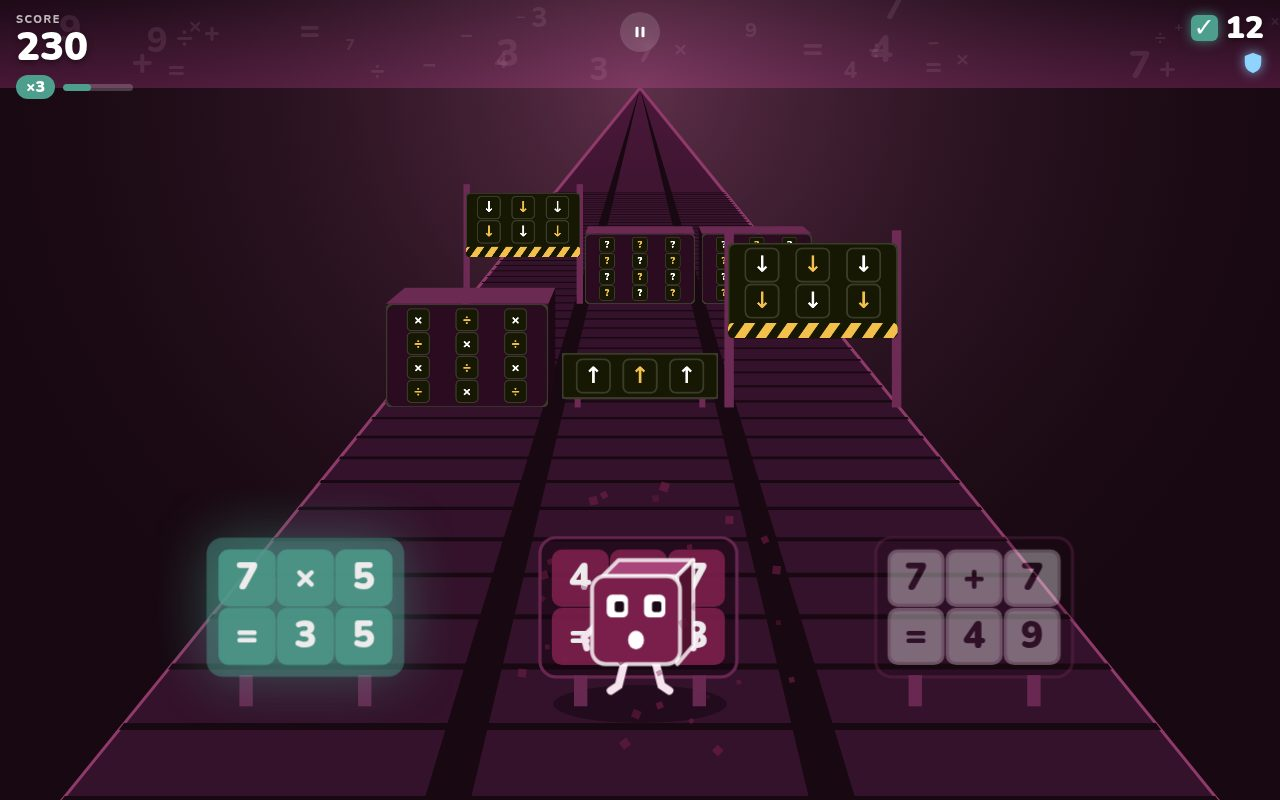
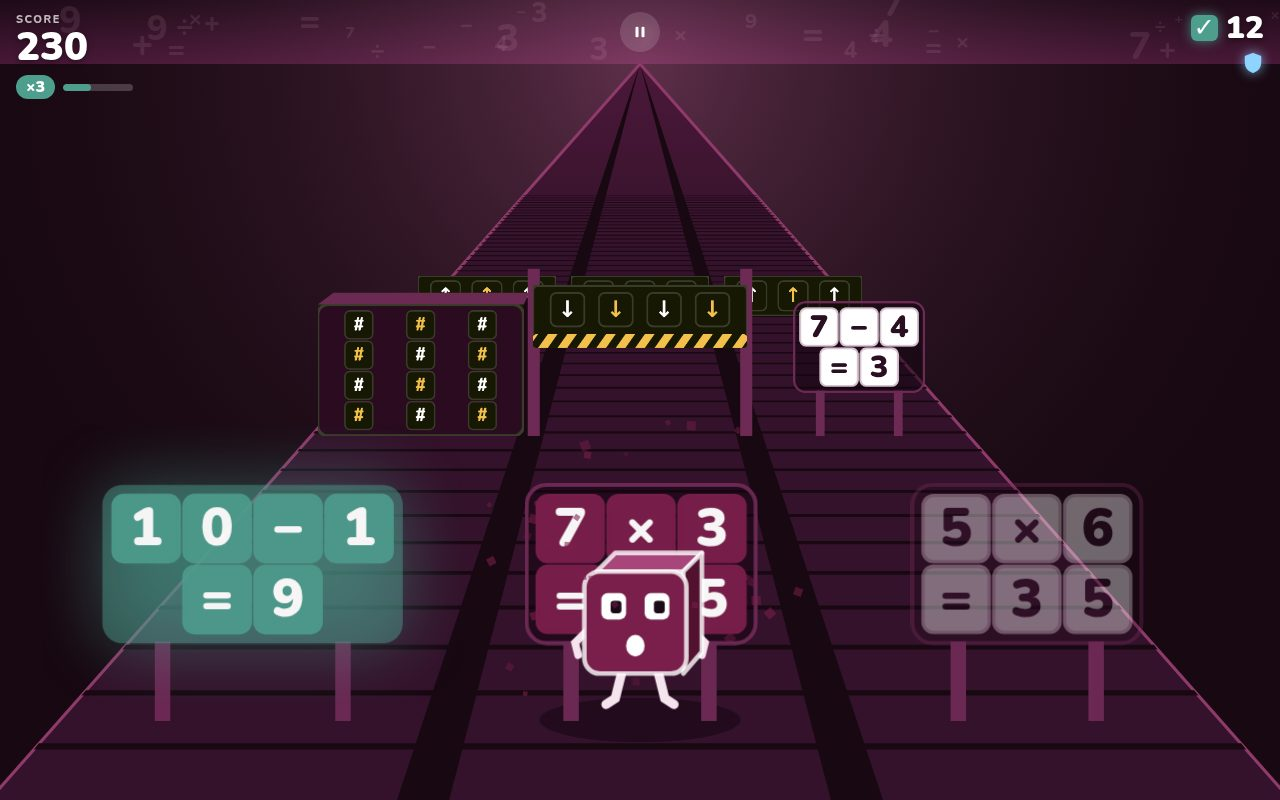
One swipe = one lane; bigger maths and longer reading time
- Swipes: exactly one action per touch. A long or fast swipe used to fire
  twice, because the origin reset after each move; two lanes now takes
  two swipes. Quick flicks that only register on release still count,
  and each finger is tracked separately. 6 new tests.
- Bigger digits everywhere: a wider track on laptops/tablets, digits
  filling 82% of each tile, and tighter panel padding. Digit height at
  the runner: phone 21->27px, laptop 27->39px, iPad 21->27px.
- More reading time without slowing the game: a longer camera lens keeps
  far rows large, so equations are legible from much further back.
  Legible for 4.1s on a phone (was 2.0s), 5.9s on a laptop (was 3.3s)
  and 4.0s on an iPad (was 2.1s) at the start of a run.
- Laptops and tablets (portrait too) read left to right in two lines;
  phones keep column arithmetic, where it's about twice the digit size.
- Panels stand higher, walls are shorter front-to-back, and the beam
  board is slimmer, so nothing in front hides the equations behind it.
- Adaptive quality reacts sooner and steps back up only after 15s calm.

Claude-Session: https://claude.ai/code/session_0137cJNrgS5eK7hfYjYFJS6r

Changed region(s): [[0.0, 0.0625, 1.0, 1.0]]

diff --git a/src/render/renderer.js b/src/render/renderer.js
@@ -16,19 +16,19 @@
 
 import { SPAWN_D, WALL_LEN } from '../game/engine.js';
 import { displayToken } from '../game/equations.js';
-import { createView, scaleAt, groundYAt, laneXAt, project, layoutTokens, CAM, TILE_GAP } from './projection.js';
+import { createView, scaleAt, groundYAt, laneXAt, project, layoutTokens, CAM, TILE_GAP, PANEL_PAD } from './projection.js';
 
 const FONT = '"Nunito", "Quicksand", system-ui, sans-serif';
 // Heights in world units (a lane is 4 wide; the cube is ~2 tall).
-const PANEL_LIFT = 0.35; // equation panels stand on short legs
+const PANEL_LIFT = 0.8; // equation panels stand on legs, clear of whatever is in front
 const HURDLE_LIFT = 0.2;
 const HURDLE_TOP = 1.25;
 // Beams are a tall overhead gantry — big board up high, obvious open gap
 // underneath — but the bottom edge sits below the standing cube's head (~2),
 // above the ducking cube (~0.9): you must duck.
 const BEAM_BOTTOM = 1.6;
-const BEAM_TOP = 3.8;
-const BEAM_POST_TOP = 4.1;
+const BEAM_TOP = 2.75; // slim board: doesn't hide the row behind it
+const BEAM_POST_TOP = 3.05;
 const WALL_H = 2.4; // taller than the cube (~2), low enough not to hide the row behind
 const ROW_LEN = 4.5; // world length of one row of track tiles
 const SEAM_FAR_D = 220; // seams further than this blend into the bed anyway
@@ -102,7 +102,7 @@ export function createRenderer(backCanvas, frontCanvas) {
   /** React to engine events with particles. */
   function onEvents(g, events, theme) {
     const v = view;
-    const midY = v.groundY - v.ppu * 1.3; // roughly the middle of a panel at the runner
+    const midY = v.groundY - v.ppu * 1.6; // roughly the middle of a panel at the runner
     for (const e of events) {
       if (e.type === 'coin') {
         // The panel shatters into its tiles and a coin flies to the HUD.
@@ -446,7 +446,7 @@ export function createRenderer(backCanvas, frontCanvas) {
     const gap = tile * TILE_GAP;
     const rows = layoutTokens(tokens, view.signLayout);
     const align = view.signLayout === 'column' ? 'right' : 'center';
-    const inner = tile * 0.25;
+    const inner = tile * PANEL_PAD;
     const rowW = (r) => r.length * tile + (r.length - 1) * gap;
     const w = Math.max(...rows.map(rowW)) + inner * 2;
     const h = rows.length * tile + (rows.length - 1) * gap + inner * 2;
@@ -482,8 +482,9 @@ export function createRenderer(backCanvas, frontCanvas) {
 
     ctx.textAlign = 'center';
     ctx.textBaseline = 'middle';
-    ctx.font = `900 ${tile * 0.7}px ${FONT}`;
-    ctx.lineWidth = Math.max(1, tile * 0.06);
+    // Big, bold digits: they fill most of the tile.
+    ctx.font = `900 ${tile * 0.82}px ${FONT}`;
+    ctx.lineWidth = Math.max(1, tile * 0.05);
     const maxW = w - inner * 2;
     rows.forEach((row, ri) => {
       const y = inner + ri * (tile + gap);
@@ -495,7 +496,7 @@ export function createRenderer(backCanvas, frontCanvas) {
         ctx.strokeStyle = edge;
         ctx.stroke();
         ctx.fillStyle = ink;
-        ctx.fillText(displayToken(ch), x + tile / 2, y + tile * 0.54);
+        ctx.fillText(displayToken(ch), x + tile / 2, y + tile * 0.56);
         x += tile + gap;
       }
     });
@@ -610,7 +611,7 @@ export function createRenderer(backCanvas, frontCanvas) {
     let hUnits;
     let glyphs;
     if (kind === 'hurdle') [cols, rows, wFrac, hUnits, glyphs] = [3, 1, 0.9, HURDLE_TOP - HURDLE_LIFT, ['↑']];
-    else if (kind === 'beam') [cols, rows, wFrac, hUnits, glyphs] = [3, 2, 0.98, BEAM_TOP - BEAM_BOTTOM, ['↓']];
+    else if (kind === 'beam') [cols, rows, wFrac, hUnits, glyphs] = [4, 1, 0.98, BEAM_TOP - BEAM_BOTTOM, ['↓']];
     else {
       const variant = Number(kind.slice(4));
       [cols, rows, wFrac, hUnits] = [3, 4, 0.94, WALL_H];
@@ -632,7 +633,7 @@ export function createRenderer(backCanvas, frontCanvas) {
     // Tiles.
     const padX = w * 0.05;
     const padY = h * (rows === 1 ? 0.1 : 0.04);
-    const bottomBand = kind === 'beam' ? h * 0.16 : 0;
+    const bottomBand = kind === 'beam' ? h * 0.22 : 0;
     const tw = (w - padX * 2) / cols;
     const th = (h - padY * 2 - bottomBand) / rows;
     const t = Math.min(tw, th);
@@ -656,7 +657,7 @@ export function createRenderer(backCanvas, frontCanvas) {
     }
     if (kind === 'beam') {
       // Yellow/black hazard stripes along the underside: "the gap is below".
-      const band = h * 0.16;
+      const band = h * 0.22;
       ctx.save();
       roundRect(ctx, 0, h - band, w, band, band * 0.3);
       ctx.clip();

diff --git a/src/input.test.js b/src/input.test.js
@@ -24,19 +24,69 @@ describe('swipes', () => {
     expect(classifySwipe(5, 5)).toBeNull();
   });
 
-  it('chains two lane changes in one stroke', () => {
+  const rig = () => {
     const el = document.createElement('div');
-    const onAction = vi.fn();
-    attachSwipe(el, onAction);
-    const ev = (type, x, y) => {
+    const calls = [];
+    attachSwipe(el, (a) => calls.push(a));
+    const ev = (type, x, y, id = 1) => {
       const e = new Event(type);
-      Object.assign(e, { clientX: x, clientY: y, pointerId: 1 });
+      Object.assign(e, { clientX: x, clientY: y, pointerId: id });
       el.dispatchEvent(e);
     };
-    ev('pointerdown', 200, 200);
-    ev('pointermove', 170, 200);
-    ev('pointermove', 140, 202);
-    ev('pointerup', 140, 202);
-    expect(onAction.mock.calls.map((c) => c[0])).toEqual(['left', 'left']);
+    return { ev, calls };
+  };
+
+  it('one swipe moves exactly one lane, however long it is', () => {
+    const { ev, calls } = rig();
+    ev('pointerdown', 300, 400);
+    for (let x = 290; x >= 20; x -= 10) ev('pointermove', x, 402); // a long, sweeping swipe
+    ev('pointerup', 20, 402);
+    expect(calls).toEqual(['left']);
+  });
+
+  it('two lanes takes two swipes', () => {
+    const { ev, calls } = rig();
+    for (let i = 0; i < 2; i++) {
+      ev('pointerdown', 200, 400);
+      ev('pointermove', 160, 400);
+      ev('pointerup', 150, 400);
+    }
+    expect(calls).toEqual(['left', 'left']);
+  });
+
+  it('changing direction mid-swipe does not add a second move', () => {
+    const { ev, calls } = rig();
+    ev('pointerdown', 200, 400);
+    ev('pointermove', 240, 400); // right
+    ev('pointermove', 150, 400); // then back left past the start
+    ev('pointermove', 150, 300); // then up
+    ev('pointerup', 150, 300);
+    expect(calls).toEqual(['right']);
+  });
+
+  it('a quick flick that only registers on release still counts', () => {
+    const { ev, calls } = rig();
+    ev('pointerdown', 200, 400);
+    ev('pointerup', 200, 340);
+    expect(calls).toEqual(['jump']);
+  });
+
+  it('a tap does nothing', () => {
+    const { ev, calls } = rig();
+    ev('pointerdown', 200, 400);
+    ev('pointermove', 205, 403);
+    ev('pointerup', 205, 403);
+    expect(calls).toEqual([]);
+  });
+
+  it('two fingers are two independent swipes', () => {
+    const { ev, calls } = rig();
+    ev('pointerdown', 100, 400, 1);
+    ev('pointerdown', 300, 400, 2);
+    ev('pointermove', 60, 400, 1);
+    ev('pointermove', 340, 400, 2);
+    ev('pointerup', 60, 400, 1);
+    ev('pointerup', 340, 400, 2);
+    expect(calls).toEqual(['left', 'right']);
   });
 });

diff --git a/src/render/projection.js b/src/render/projection.js
@@ -11,9 +11,12 @@
 
 import { MAX_TILES } from '../game/equations.js';
 
-export const CAM = 45;
+// A fairly long lens: far rows stay large enough to read early, which is
+// what buys reading time (without slowing the game down).
+export const CAM = 55;
 export const LANE_UNITS = 4; // world width of a lane
-export const TILE_GAP = 0.08; // gap between tiles, as a fraction of tile size
+export const TILE_GAP = 0.07; // gap between tiles, as a fraction of tile size
+export const PANEL_PAD = 0.16; // panel border around the tiles, as a fraction of tile size
 
 export function createView(width, height) {
   const portrait = height > width * 1.1;
@@ -21,22 +24,23 @@ export function createView(width, height) {
   // Track width at the runner. On phones it's a touch wider than the screen:
   // side lanes are fully visible while you read ahead and only clip at the
   // very last moment, which buys noticeably bigger tiles.
-  const trackW = narrow ? width * 1.25 : Math.min(width * 0.96, height * 1.25, 1150);
+  const trackW = narrow ? width * 1.28 : Math.min(width * 0.97, height * 1.45, 1400);
   const laneW = trackW / 3;
-  const horizonY = height * (portrait ? 0.15 : 0.11);
-  const groundY = height * (portrait ? 0.86 : 0.88);
+  const horizonY = height * (portrait ? 0.12 : 0.08);
+  const groundY = height * (portrait ? 0.87 : 0.9);
   const ppu = laneW / LANE_UNITS; // pixels per world unit at the runner
 
-  // Equation panel layout. Bigger tiles win:
-  //   'row'    7×8=56 on one line (only when there's loads of room)
-  //   'two'    7×8 / =56
+  // Equation panel layout — read left to right wherever the screen allows:
+  //   'row'    7×8=56 on one line (only when even that gives big tiles)
+  //   'two'    7×8 / =56 — laptops and tablets (portrait too)
   //   'column' 7 / ×8 / =56, right-aligned like written column arithmetic —
-  //            what phones get, roughly doubling tile size
-  const signW = laneW * 0.94;
-  const tileFor = (cols) => signW / (cols + (cols - 1) * TILE_GAP + 0.5);
+  //            phones only, where it roughly doubles the digit size compared
+  //            with a horizontal layout in a lane that narrow
+  const signW = laneW * 0.96;
+  const tileFor = (cols) => signW / (cols + (cols - 1) * TILE_GAP + PANEL_PAD * 2);
   let signLayout = 'column';
-  if (tileFor(MAX_TILES) >= 46) signLayout = 'row';
-  else if (tileFor(5) >= 34) signLayout = 'two';
+  if (tileFor(MAX_TILES) >= 56) signLayout = 'row';
+  else if (tileFor(5) >= 36) signLayout = 'two';
 
   return {
     width,

diff --git a/src/input.js b/src/input.js
@@ -30,34 +30,39 @@ export function classifySwipe(dx, dy, threshold = 22) {
 }
 
 /**
- * Attach swipe handling to an element. One stroke can chain moves
- * (swipe left-left across two lanes) because the origin resets after each
- * recognised gesture.
+ * Attach swipe handling to an element. Exactly ONE action per touch: a long
+ * or fast swipe still only moves one lane — lift and swipe again to move two.
+ * It fires as soon as the finger crosses the threshold (no waiting for
+ * touchend), and a very quick flick that only registers on release still
+ * counts. Each finger is tracked separately.
  */
 export function attachSwipe(el, onAction) {
-  let origin = null;
+  const strokes = new Map(); // pointerId -> { x, y, fired }
   const down = (e) => {
-    origin = { x: e.clientX, y: e.clientY, id: e.pointerId };
+    strokes.set(e.pointerId, { x: e.clientX, y: e.clientY, fired: false });
   };
-  const move = (e) => {
-    if (!origin || e.pointerId !== origin.id) return;
-    const action = classifySwipe(e.clientX - origin.x, e.clientY - origin.y);
+  const check = (e) => {
+    const s = strokes.get(e.pointerId);
+    if (!s || s.fired) return;
+    const action = classifySwipe(e.clientX - s.x, e.clientY - s.y);
     if (action) {
+      s.fired = true;
       onAction(action);
-      origin = { x: e.clientX, y: e.clientY, id: e.pointerId };
     }
   };
-  const up = () => {
-    origin = null;
+  const up = (e) => {
+    check(e);
+    strokes.delete(e.pointerId);
   };
+  const cancel = (e) => strokes.delete(e.pointerId);
   el.addEventListener('pointerdown', down);
-  el.addEventListener('pointermove', move);
+  el.addEventListener('pointermove', check);
   el.addEventListener('pointerup', up);
-  el.addEventListener('pointercancel', up);
+  el.addEventListener('pointercancel', cancel);
   return () => {
     el.removeEventListener('pointerdown', down);
-    el.removeEventListener('pointermove', move);
+    el.removeEventListener('pointermove', check);
     el.removeEventListener('pointerup', up);
-    el.removeEventListener('pointercancel', up);
+    el.removeEventListener('pointercancel', cancel);
   };
 }

diff --git a/src/components/GameView.jsx b/src/components/GameView.jsx
@@ -135,7 +135,7 @@ export default function GameView({
     const adapt = (ms) => {
       if (ms <= 4 || ms > 120) return; // ignore pauses, tab switches, jitter
       avgFrame += (ms - avgFrame) * 0.05;
-      if (avgFrame > 21) {
+      if (avgFrame > 19.5) {
         slowFor += ms;
         fastFor = 0;
         if (slowFor > 1200 && renderer.quality > 0.5) {
@@ -143,10 +143,12 @@ export default function GameView({
           slowFor = 0;
           avgFrame = 16.7;
         }
-      } else if (avgFrame < 17.5 && renderer.quality < 1) {
+      } else if (avgFrame < 17 && renderer.quality < 1) {
         fastFor += ms;
         slowFor = 0;
-        if (fastFor > 8000) {
+        // Step back up only after a long calm stretch, so quality doesn't
+        // flip-flop on a device that's right on the edge.
+        if (fastFor > 15000) {
           renderer.setQuality(renderer.quality + 0.1);
           fastFor = 0;
         }

diff --git a/src/game/rows.js b/src/game/rows.js
@@ -23,7 +23,7 @@
 
 import { generateGate } from './equations.js';
 
-export const WALL_LEN = 7; // world units a wall extends along the track
+export const WALL_LEN = 5; // world units a wall extends along the track
 
 /** Seconds into a run before anything but maths rows can appear. */
 export const MIXED_FROM = 8;

diff --git a/README.md b/README.md
@@ -27,7 +27,7 @@ npm run dev        # http://localhost:5173
 
 | | Keyboard | Touch |
 |---|---|---|
-| Change lane | ← → or A D | swipe left / right |
+| Change lane | ← → or A D | swipe left / right (one swipe = one lane) |
 | Jump (barriers) | ↑, W or Space | swipe up |
 | Duck (beams) | ↓ or S | swipe down |
 | Pause | P or Esc | ⏸ button |
@@ -60,7 +60,19 @@ Every row always has at least one lane you can get through cleanly. A test plays
 
 **Exactly one of three is true in a maths row, and there's no shortcut.** Each equation is generated independently; one is left true and the others are perturbed. If the decoys were built from the true equation (7×8=56 / 7×8=54 / 7+8=56), you could find the answer without doing any maths — pick the lane that shares the most with the other two. With independent lanes every panel is an honest true-or-false check. (There's a test for this.)
 
-**Big, readable maths.** The camera sits high and looks down the track, like Subway Surfers: the horizon is near the top of the screen and rows spread down its full height, so you can read two or three rows ahead. On laptops, panels show the equation in two lines (`12+39` / `=51`). On phones they switch to right-aligned column arithmetic (`12` / `+39` / `=51`), which roughly doubles the tile size. Tile size is uniform from row to row, so a near panel never hides the one behind it.
+**Big, readable maths — and time to read it.** The camera sits high and looks down the track, like Subway Surfers: the horizon is near the top of the screen and rows spread down its full height, so you can read two or three rows ahead. A long lens keeps far rows large, so an equation becomes legible well before it reaches you. That buys reading time without slowing the game down.
+
+- **Laptops and tablets** (including tablets in portrait) read left to right, in two lines (`12+39` / `=51`).
+- **Phones** use right-aligned column arithmetic (`12` / `+39` / `=51`). In a lane that narrow, a horizontal layout would roughly halve the digit size.
+- Tile size is uniform from row to row, so a near panel never hides the one behind it.
+
+| | Digit height at the runner | Time an equation is legible (12px digits) before it reaches you, at the start |
+|---|---|---|
+| Phone 390×844 | 21px → **27px** | 2.0s → **4.1s** |
+| Laptop 1280×800 | 27px → **39px** | 3.3s → **5.9s** (legible from the horizon) |
+| iPad portrait | 21px → **27px** | 2.1s → **4.0s** |
+
+**Controls on phones.** One swipe moves exactly one lane, however long or fast the swipe; to move two lanes, swipe twice. The swipe registers the moment your finger crosses the threshold, and a quick flick that only registers on release still counts.
 
 **Decoys are believable, and get sneakier as your score climbs.** Decoy sharpness is driven by *whichever is further along — time survived or correct answers* — so a strong player hits the hard stuff quickly:
 
@@ -112,13 +124,15 @@ If frames still run long, adaptive quality lowers the resolution a notch, keepin
 | Profile | Before optimisation | Now |
 |---|---|---|
 | Laptop 1440×900 @2x | 31 fps | **60 fps** |
-| Phone 390×844 @3x, CPU throttled 4× | 17 fps | **57–60 fps** |
-| Phone 390×844 @3x, CPU throttled 6× | 12 fps | **57 fps** |
+| Phone 390×844 @3x, CPU throttled 4× | 17 fps | **55–60 fps** |
+| Phone 390×844 @3x, CPU throttled 6× | 12 fps | **50–56 fps** |
+
+These runs are noisy in a GPU-less container. Profiling shows over 80% of the time goes to software canvas rasterisation, which real phones do on the GPU; the game's own JavaScript is under 10% of the frame.
 
 ## Tests
 
 ```bash
-npm test           # 80 unit + component tests (Vitest)
+npm test           # 85 unit + component tests (Vitest)
 npm run build && npm run e2e    # real Chromium: tutorial, runs, caught-out screens
 npm run build && npm run perf   # frame-rate benchmark
 ```
@@ -140,6 +154,7 @@ The unit tests check things like:
 - a perfect autopilot survives 3 minutes on 12 seeds, so every run is fair
 - same seed gives the same run
 - the tutorial can't be failed, even by random mashing
+- one swipe is exactly one lane: long swipes, direction changes, quick flicks, taps, two fingers
 - share-card text
 
 The e2e test plays with real key presses, deliberately steers into a false lane, and checks the "it's actually…" value is arithmetically correct.
